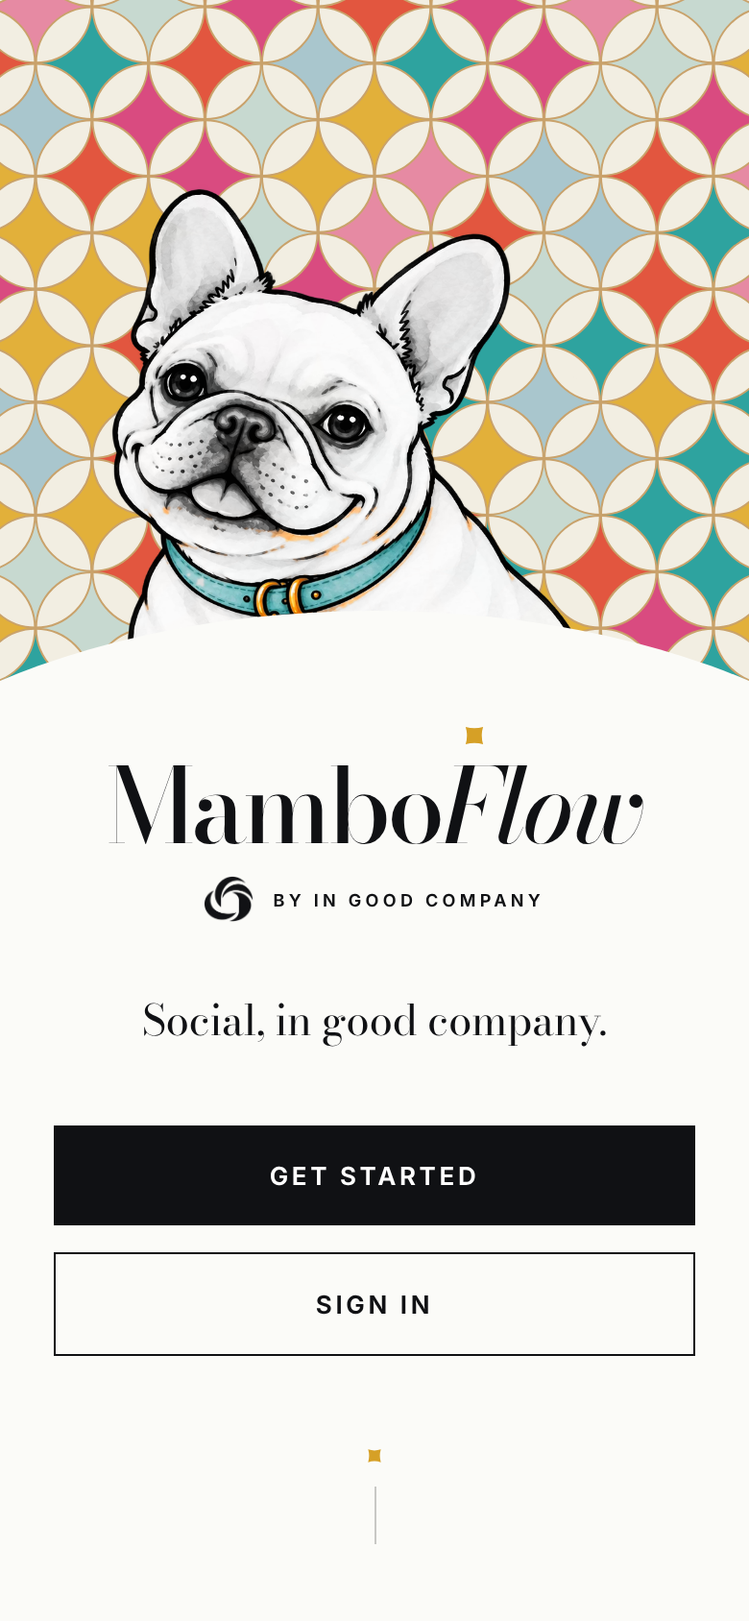
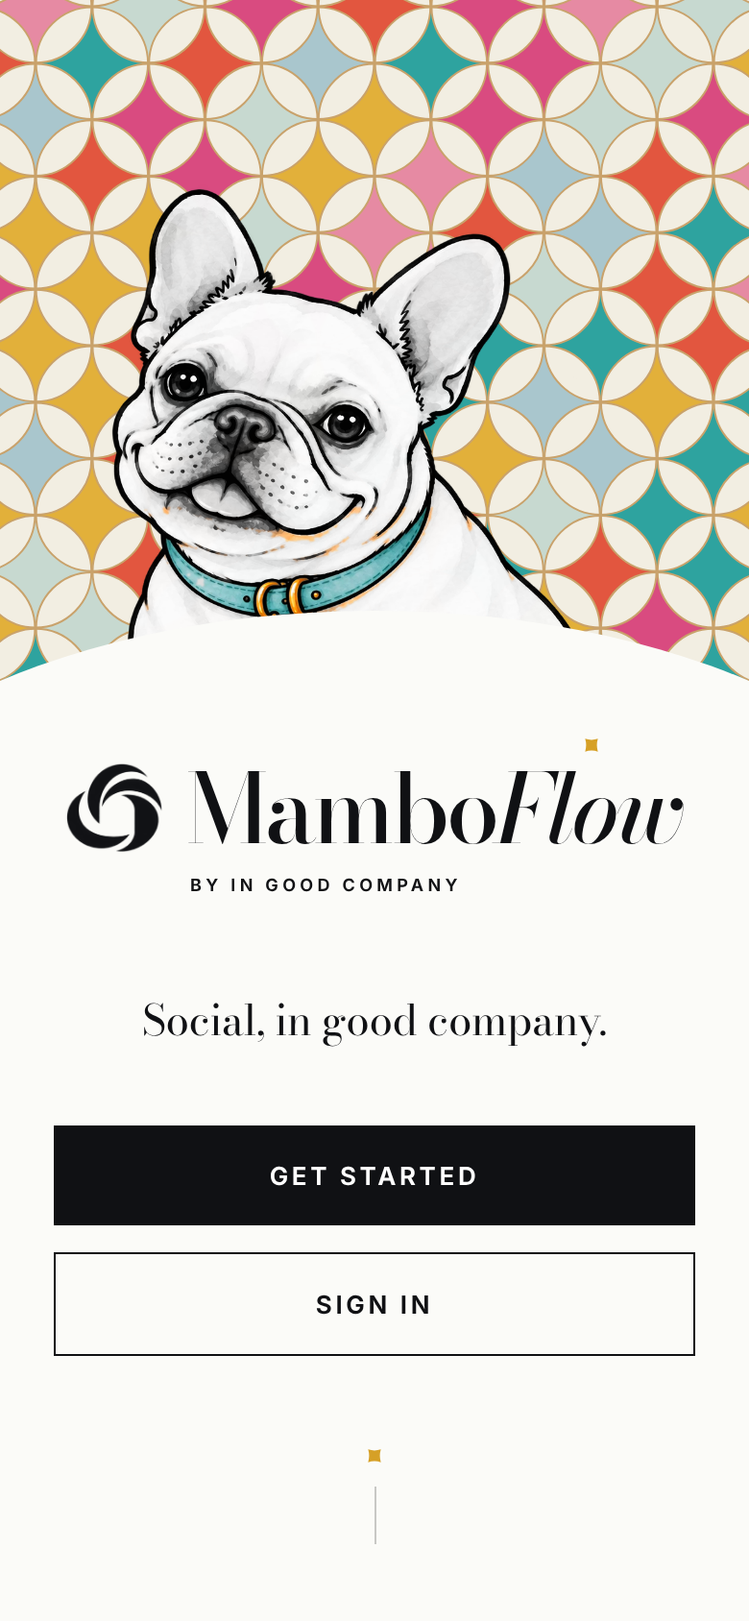
Lock the MamboFlow lockup geometry and carry it into every piece
One lockup, built like the studio's own: Mambo on his argyle panel,
the In Good Company mark at 1.25 x capital height centred on the caps,
the Bodoni Moda wordmark, and "By In Good Company" hanging beneath it,
with one mustard sparkle. Placement is driven by measured type metrics
in source/lockv3.html and render-v3.js. The header, sign-in, email
signature, brand sheet and mobile screen now share the same geometry.
Board and README updated.

Claude-Session: https://claude.ai/code/session_01PSNkhtJjPwNzdydLD5UDQg

Changed region(s): [[0.0923, 0.4313, 0.9231, 0.5853], [0.7692, 0.4313, 0.8, 0.4621]]

diff --git a/branding/mamboflow/source/sheet.html b/branding/mamboflow/source/sheet.html
@@ -17,11 +17,16 @@ img.m{position:absolute;display:block}
 .endorse{position:absolute;display:flex;align-items:center;gap:12px}
 .endorse img{display:block;height:44px;width:auto}
 .endorse .by{position:static!important}
+/* the lockup component: mark = 1.25 x cap height, centred on the caps; endorsement under the wordmark */
+.lk{--F:44px;display:flex;align-items:flex-start;gap:calc(var(--F)*.24)}
+.lk>img{display:block;height:calc(var(--F)*.94);width:auto;margin-top:calc(var(--F)*.02)}
+.lk .wm{font-size:var(--F);line-height:1;white-space:nowrap}
+.lk .by{margin:calc(var(--F)*.18) 0 0 calc(var(--F)*.04)}
+
 .spark{position:absolute;width:40px;height:40px}
 /* hero */
 #hero{grid-column:1/3}
-#hero .wm{position:absolute;left:36px;top:100px;font-size:94px}
-#hero .endorse{left:40px;top:200px}
+#hero .lk{position:absolute;left:36px;top:112px}
 #hero .by{font-size:13px}
 #hero .tag{position:absolute;left:40px;top:318px;width:420px;font-family:"Bodoni Moda";font-size:22px;letter-spacing:-.01em;color:var(--muted)}
 #hero .panel{left:500px;top:28px;width:270px;height:344px}
@@ -31,9 +36,7 @@ img.m{position:absolute;display:block}
 #icon .box{position:absolute;left:62px;top:40px;width:240px;height:240px;border:1px solid var(--line);overflow:hidden;background:var(--paper)}
 #icon .box .panel{left:14px;top:14px;width:212px;height:212px;border-width:3px}
 #icon .box img.m{width:330px;left:-20px;top:8px}
-#icon .wm{position:absolute;left:0;right:0;top:300px;text-align:center;font-size:40px}
-#icon .endorse{left:0;right:0;top:340px;justify-content:center;gap:8px}
-#icon .endorse img{height:22px}
+#icon .lk{position:absolute;left:0;right:0;top:300px;justify-content:center}
 #icon .by{font-size:9px;letter-spacing:.2em}
 /* pattern cell */
 #pat img{position:absolute;inset:0;width:100%;height:100%;object-fit:cover}
@@ -43,8 +46,8 @@ img.m{position:absolute;display:block}
 #phone .scr{position:relative;width:100%;height:100%;border-radius:22px;background:var(--paper);overflow:hidden}
 #phone .scr .panel{left:14px;top:18px;width:202px;height:170px;border-width:4px}
 #phone .scr img.m{left:14px;top:4px;width:200px}
-#phone .scr .wm{position:absolute;left:0;right:0;top:214px;text-align:center;font-size:34px}
-#phone .scr .by{position:absolute;left:0;right:0;top:252px;text-align:center;font-size:8px;letter-spacing:.2em}
+#phone .scr .lk{position:absolute;left:0;right:0;top:214px;justify-content:center}
+#phone .scr .by{font-size:8px;letter-spacing:.2em}
 #phone .btn{position:absolute;left:24px;right:24px;height:38px;display:flex;align-items:center;justify-content:center;font-size:10px;letter-spacing:.14em;text-transform:uppercase;font-weight:650}
 #phone .b1{top:300px;background:var(--ink);color:#fff}
 #phone .b2{top:348px;border:1px solid var(--ink)}
@@ -65,9 +68,7 @@ img.m{position:absolute;display:block}
 /* card + glyphs column */
 #card{display:grid;grid-template-rows:1fr auto;gap:14px;background:transparent;border:0}
 #card .bc{position:relative;background:var(--paper);border:1px solid var(--line);overflow:hidden}
-#card .bc .wm{position:absolute;left:22px;top:64px;font-size:34px}
-#card .bc .endorse{left:24px;top:106px;gap:8px}
-#card .bc .endorse img{height:26px}
+#card .bc .lk{position:absolute;left:22px;top:66px}
 #card .bc .by{font-size:8px;letter-spacing:.2em}
 #card .bc .panel{right:-24px;top:20px;width:140px;height:190px;border-width:4px}
 #card .bc img.m{right:-20px;top:22px;width:128px}
@@ -99,21 +100,21 @@ img.m{position:absolute;display:block}
 <div id="sheet">
  <div class="cell" id="hero">
   <img class="spark" src="../patterns/spark-mustard.svg">
-  <h1 class="wm">Mambo<em>Flow</em></h1><div class="endorse"><img src="../igc/igc-mark-black.png" alt=""><p class="by">By In Good Company</p></div>
+  <div class="lk" style="--F:68px"><img src="../igc/igc-mark-black.png" alt=""><div><h3 class="wm">Mambo<em>Flow</em></h3><p class="by">By In Good Company</p></div></div>
   <div class="tag">Placeholder line, Maddie's words to come.</div>
   <div class="panel"><img src="../patterns/argyle-atomic-fine.svg"></div><img class="m" src="../mascot/mambo-pop-teal.png">
  </div>
- <div class="cell" id="icon"><div class="box"><div class="panel"><img src="../patterns/argyle-atomic-fine.svg"></div><img class="m" src="../mascot/mambo-pop-teal.png"></div><h2 class="wm">Mambo<em>Flow</em></h2><div class="endorse"><img src="../igc/igc-mark-black.png" alt=""><p class="by">By In Good Company</p></div></div>
+ <div class="cell" id="icon"><div class="box"><div class="panel"><img src="../patterns/argyle-atomic-fine.svg"></div><img class="m" src="../mascot/mambo-pop-teal.png"></div><div class="lk" style="--F:38px"><img src="../igc/igc-mark-black.png" alt=""><div><h3 class="wm">Mambo<em>Flow</em></h3><p class="by">By In Good Company</p></div></div></div>
  <div class="cell" id="pat"><img src="../patterns/argyle-atomic-600.svg"></div>
 
- <div class="cell" id="phone"><div class="dev"><div class="scr"><div class="panel"><img src="../patterns/argyle-atomic-fine.svg"></div><img class="m" src="../mascot/mambo-peek-up.png"><h2 class="wm">Mambo<em>Flow</em></h2><p class="by">By In Good Company</p><div class="btn b1">Get started</div><div class="btn b2">Sign in</div><img class="spark" src="../patterns/spark-mustard.svg"></div></div></div>
+ <div class="cell" id="phone"><div class="dev"><div class="scr"><div class="panel"><img src="../patterns/argyle-atomic-fine.svg"></div><img class="m" src="../mascot/mambo-peek-up.png"><div class="lk" style="--F:32px"><img src="../igc/igc-mark-black.png" alt=""><div><h3 class="wm">Mambo<em>Flow</em></h3><p class="by">By In Good Company</p></div></div><div class="btn b1">Get started</div><div class="btn b2">Sign in</div><img class="spark" src="../patterns/spark-mustard.svg"></div></div></div>
  <div class="cell" id="post">
   <div class="bar"><div class="av"><img src="../mascot/mambo-head.png"></div><div><b>MamboFlow</b><br><span>By In Good Company</span></div></div>
   <div class="img"><img class="pat" src="../patterns/tile-foyer.svg"><div class="fade"></div><div class="h">Meet<br>Mambo.</div><img class="m" src="../mascot/mambo-pop-teal-sticker.png"></div>
   <div class="foot"><b>MamboFlow</b>Placeholder caption, Maddie's words to come.</div>
  </div>
  <div class="cell" id="card">
-  <div class="bc"><h2 class="wm">Mambo<em>Flow</em></h2><div class="endorse"><img src="../igc/igc-mark-black.png" alt=""><p class="by">By In Good Company</p></div><div class="panel"><img src="../patterns/argyle-atomic-fine.svg"></div><img class="m" src="../mascot/mambo-peek-corner.png"></div>
+  <div class="bc"><div class="lk" style="--F:30px"><img src="../igc/igc-mark-black.png" alt=""><div><h3 class="wm">Mambo<em>Flow</em></h3><p class="by">By In Good Company</p></div></div><div class="panel"><img src="../patterns/argyle-atomic-fine.svg"></div><img class="m" src="../mascot/mambo-peek-corner.png"></div>
   <div class="gl"><div><img src="../patterns/spark-mustard.svg" style="width:44%"></div><div style="color:#101114"><svg><use href="#burst"/></svg></div><div style="color:#3fa9a6"><svg><use href="#petal"/></svg></div></div>
  </div>
  <div class="cell" id="stick"><img class="m" src="../mascot/mambo-peek-sticker.png"><h2 class="wm">Mambo<em>Flow</em></h2><div class="tag">Die-cut sticker · laptop, water bottle, mail</div></div>
@@ -121,8 +122,8 @@ img.m{position:absolute;display:block}
  <div class="cell" id="pal"><div class="eb lab">Color palette</div><div class="dots"><div style="background:#101114"></div><div style="background:#fbfbf8"></div><div style="background:#e7e7e2"></div><div style="background:#3fa9a6"></div><div style="background:#e2b03a"></div><div style="background:#d94b80"></div><div style="background:#e2563f"></div><div style="background:#a9c6cd"></div></div></div>
  <div class="cell" id="lib"><div class="eb lab">Pattern library</div><div class="row"><div><img src="../patterns/argyle-atomic-600.svg"></div><div><img src="../patterns/tile-foyer.svg"></div><div><img src="../patterns/tile-lattice.svg"></div></div></div>
  <div class="cell" id="var"><div class="eb lab">Logo variations and poses</div><div class="row">
-  <div><img src="../lockups/lock-primary.png" style="left:10px;top:34px;width:95%"><div class="cap">Primary</div></div>
-  <div><img src="../lockups/lock-stacked.png" style="left:20%;top:8px;width:60%"><div class="cap">Stacked</div></div>
+  <div><img src="../lockups/lock-primary.png" style="left:4px;top:40px;width:97%"><div class="cap">Primary</div></div>
+  <div><img src="../lockups/lock-stacked.png" style="left:14%;top:6px;width:72%"><div class="cap">Stacked</div></div>
   <div><img src="../mascot/mambo-pop-teal.png" style="left:18%;top:10px;width:64%"><div class="cap">Full</div></div>
   <div><img src="../mascot/mambo-peek-up.png" style="left:-8%;bottom:-40px;width:116%"><div class="cap">Peek up</div></div>
   <div><img src="../mascot/mambo-peek-corner.png" style="right:-30px;top:-10px;width:92%"><div class="cap">Peek in</div></div>

diff --git a/branding/mamboflow/board/index.html b/branding/mamboflow/board/index.html
@@ -114,7 +114,7 @@ a{color:var(--ink)}
   </div>
   <div>
     <div class="plate"><img src="img/lock-primary.png" alt="MamboFlow primary lockup: Mambo in front of a framed argyle atomic panel, beside the MamboFlow wordmark, the line By In Good Company, and a slot for the In Good Company mark" width="1420" height="420"></div>
-    <div class="cap"><b>Primary lockup</b><span>Draft two · In Good Company mark in place</span></div>
+    <div class="cap"><b>Primary lockup</b><span>Draft three · the chosen lockup</span></div>
   </div>
 </section>
 
@@ -124,7 +124,7 @@ a{color:var(--ink)}
     <p>The whole system at a glance: hero lockup, app icon, the paper, a phone screen, a post, a card, three glyphs, a die-cut sticker, the palette, the pattern library, and Mambo in the poses cut from his drawing. The In Good Company mark sits beside the endorsement line on every piece.</p>
   </div>
   <div class="plate flush"><img src="img/brand-sheet.png" alt="One-page MamboFlow brand sheet" width="1600" height="1180"></div>
-  <div class="cap"><b>Brand sheet</b><span>Draft two · placeholder copy</span></div>
+  <div class="cap"><b>Brand sheet</b><span>Draft three · placeholder copy</span></div>
 </section>
 
 <section>
@@ -178,7 +178,7 @@ a{color:var(--ink)}
 <section>
   <div class="head">
     <div><div class="eyebrow">The lockups</div><h2>The dog, the panel, the word, the studio.</h2></div>
-    <p>Every lockup reads in the same order: Mambo in front of his panel, the MamboFlow wordmark, then the In Good Company mark beside the endorsement line. The panel is bordered in paper white, the way the real ceiling sits inside its trim.</p>
+    <p>One lockup, built the way the studio's own is: Mambo on his panel, then the In Good Company mark at the height of the capitals, then the wordmark with "By In Good Company" hanging beneath it. The panel is bordered in paper white, the way the real ceiling sits inside its trim.</p>
   </div>
   <div class="grid g2">
     <div><div class="plate"><img src="img/lock-stacked.png" alt="Stacked lockup: Mambo and his panel above the wordmark, endorsement, and mark slot" width="960" height="760"></div><div class="cap"><b>Stacked</b><span>Square and tall spaces</span></div></div>
@@ -193,8 +193,10 @@ a{color:var(--ink)}
   <ul class="rows" style="margin-top:clamp(32px,5vw,64px)">
     <li><b>The panel</b><span>The paper appears only inside a framed panel behind Mambo, roughly square, with a paper-white border and a hairline edge. He always overlaps its edges. Never tile the paper edge to edge behind type.</span></li>
     <li><b>Clear space</b><span>The height of the capital M in the wordmark on every side. Minimum primary lockup width on screen: 220px.</span></li>
-    <li><b>Endorsement</b><span>By In Good Company, Inter 650, uppercase, 0.24em tracking. Contracts and footers use the legal name: In Good Company Impact Studio, LLC.</span></li>
-    <li><b>IGC mark</b><span>The studio's circle mark is the supplied file, never redrawn. It sits to the left of the endorsement line at about 3.5 times the cap height of the line (64px beside 17px type), black on light grounds, white on ink. Minimum size 16px.</span></li>
+    <li><b>Legal name</b><span>Contracts and footers use In Good Company Impact Studio, LLC.</span></li>
+    <li><b>IGC mark</b><span>The supplied circle mark, never redrawn, sits to the left of the wordmark at 1.25 times the capital height, centered on the capitals, with a gap of a third of the capital height. Black on light grounds, white on ink. Minimum size 16px.</span></li>
+    <li><b>Endorsement</b><span>By In Good Company hangs under the wordmark, left-aligned to it, a little under half a capital height below the baseline. Inter 650, uppercase, 0.26em tracking.</span></li>
+    <li><b>Sparkle</b><span>One mustard sparkle at the top right of the w in Flow, about a quarter of the capital height. It is the only accent on the lockup.</span></li>
   </ul>
 </section>
 
@@ -301,7 +303,7 @@ a{color:var(--ink)}
     <div><div><h3>Endorsement wording <span class="tag">Confirmed</span></h3><p><strong>MamboFlow by In Good Company.</strong> Confirmed October 14, 2026. The longer form, An In Good Company Impact Studio product, stays available for the website footer and legal pages.</p></div></div>
     <div><div><h3>The color pop <span class="tag">Confirmed</span></h3><p><strong>The argyle atomic panel behind Mambo, a teal collar, a gold charm.</strong> Confirmed October 14, 2026. Mambo's coat stays black and white.</p></div></div>
     <div><div><h3>Collar color <span class="tag">In use</span></h3><p><strong>Teal, his original.</strong> Pink, mustard, and red are rendered above if you want to switch.</p></div></div>
-    <div><div><h3>In Good Company mark <span class="tag">In place</span></h3><p><strong>The supplied circle mark now sits beside the endorsement line in every lockup and application.</strong> Black on light grounds, white on ink, never recolored.</p></div></div>
+    <div><div><h3>The lockup <span class="tag">Chosen</span></h3><p><strong>Mambo on his panel, the In Good Company mark at capital height, the wordmark, the endorsement beneath.</strong> Chosen October 14, 2026, and carried into every piece. The script wordmark from the reference boards is set aside; Bodoni Moda is the studio's face.</p></div></div>
   </div>
   <div class="note" style="margin-top:clamp(24px,3vw,44px)">
     <strong style="color:var(--ink)">To verify.</strong> The paper's colors were sampled by eye from photographs under the chandelier; confirm against the roll or the manufacturer's swatch. The X header and avatar are sized to the platform's current specs. [CONFIRM]
@@ -311,7 +313,7 @@ a{color:var(--ink)}
 <footer>
   <span>MamboFlow · By In Good Company</span>
   <span>© 2026 In Good Company Impact Studio, LLC</span>
-  <span>Brand board, draft two · October 2026</span>
+  <span>Brand board, draft three · October 2026</span>
 </footer>
 
 </div>

diff --git a/branding/mamboflow/source/assets.html b/branding/mamboflow/source/assets.html
@@ -23,6 +23,12 @@ img.m{position:absolute;display:block}
 .endorse{position:absolute;display:flex;align-items:center;gap:18px}
 .endorse img{display:block;height:64px;width:auto}
 .endorse .by{position:static!important}
+/* the lockup component: mark = 1.25 x cap height, centred on the caps; endorsement under the wordmark */
+.lk{--F:44px;display:flex;align-items:flex-start;gap:calc(var(--F)*.24)}
+.lk>img{display:block;height:calc(var(--F)*.94);width:auto;margin-top:calc(var(--F)*.02)}
+.lk .wm{font-size:var(--F);line-height:1;white-space:nowrap}
+.lk .by{margin:calc(var(--F)*.18) 0 0 calc(var(--F)*.04)}
+
 
 /* avatar 400 */
 #avatar,#avatar-dark{width:400px;height:400px}
@@ -37,11 +43,9 @@ img.m{position:absolute;display:block}
 #fav img{position:absolute;width:184px;left:-12px;top:8px}
 /* X header 1500x500 */
 #header{width:1500px;height:500px}
-#header .endorse{left:110px;top:56px;gap:14px}
-#header .endorse img{height:44px}
-#header .by{font-size:14px;color:var(--muted)}
-#header .wm{position:absolute;left:104px;top:112px;font-size:162px}
-#header .tag{position:absolute;left:400px;top:378px;font-family:var(--serif);font-style:italic;font-size:34px;letter-spacing:-.01em;color:var(--ink)}
+#header .lk{position:absolute;left:104px;top:118px}
+#header .lk .by{font-size:16px;color:var(--ink)}
+#header .tag{position:absolute;left:400px;top:380px;font-family:var(--serif);font-style:italic;font-size:34px;letter-spacing:-.01em;color:var(--ink)}
 #header .rule{left:400px;right:560px;top:356px}
 #header .panel{left:1040px;top:46px;width:400px;height:454px}
 #header img.m{right:36px;bottom:-34px;width:400px}
@@ -110,7 +114,7 @@ img.m{position:absolute;display:block}
 #sig .by{font-size:10px;color:var(--muted);margin-top:6px}
 #sig .endorse{position:static;gap:8px;margin-top:6px}
 #sig .endorse img{height:22px}
-#sig .meta{margin-left:auto;text-align:right;font-size:11px;line-height:1.6;letter-spacing:.06em;color:var(--muted)}
+#sig .meta{margin-left:auto;text-align:right;font-size:10px;line-height:1.55;letter-spacing:.04em;color:var(--muted);white-space:nowrap}
 /* pattern tiles 600x600 */
 .tile{width:600px;height:600px}
 </style></head><body>
@@ -125,8 +129,7 @@ img.m{position:absolute;display:block}
 
 <!-- X header -->
 <div class="frame" id="header">
- <div class="endorse"><img src="../igc/igc-mark-black.png" alt=""><p class="by">By In Good Company</p></div>
- <h1 class="wm">Mambo<em>Flow</em></h1>
+ <div class="lk" style="--F:118px"><img src="../igc/igc-mark-black.png" alt=""><div><h3 class="wm">Mambo<em>Flow</em></h3><p class="by">By In Good Company</p></div></div>
  <div class="rule"></div>
  <p class="tag">Social, in good company.</p>
  <div class="panel"><img src="../patterns/argyle-atomic-fine.svg"></div>
@@ -169,7 +172,7 @@ img.m{position:absolute;display:block}
  </div>
  <div class="right">
   <div class="form">
-   <div class="wmsm"><div class="mini"><div class="panel"><img src="../patterns/argyle-atomic-fine.svg"></div><img class="m" src="../mascot/mambo-pop-teal.png" alt=""></div><div><h3 class="wm">Mambo<em>Flow</em></h3><div class="endorse"><img src="../igc/igc-mark-black.png" alt=""><p class="by">By In Good Company</p></div></div></div>
+   <div class="wmsm"><div class="mini"><div class="panel"><img src="../patterns/argyle-atomic-fine.svg"></div><img class="m" src="../mascot/mambo-pop-teal.png" alt=""></div><div class="lk" style="--F:44px"><img src="../igc/igc-mark-black.png" alt=""><div><h3 class="wm">Mambo<em>Flow</em></h3><p class="by">By In Good Company</p></div></div></div>
    <div class="field"><label>Email</label><div>maddie@igcimpactstudio.com</div></div>
    <div class="field"><label>Password</label><div>••••••••••</div></div>
    <div><span class="btn">Sign in <span>→</span></span></div>
@@ -179,7 +182,7 @@ img.m{position:absolute;display:block}
 </div>
 
 <!-- Email signature strip -->
-<div class="frame" id="sig"><div class="mini"><div class="panel"><img src="../patterns/argyle-atomic-fine.svg"></div><img class="m" src="../mascot/mambo-pop-teal.png" alt=""></div><div><h3 class="wm">Mambo<em>Flow</em></h3><div class="endorse"><img src="../igc/igc-mark-black.png" alt=""><p class="by">By In Good Company</p></div></div><div class="meta">Maddie Brown · Founder and Principal<br>In Good Company Impact Studio<br>Maddie@igcimpactstudio.com</div></div>
+<div class="frame" id="sig"><div class="mini"><div class="panel"><img src="../patterns/argyle-atomic-fine.svg"></div><img class="m" src="../mascot/mambo-pop-teal.png" alt=""></div><div class="lk" style="--F:36px"><img src="../igc/igc-mark-black.png" alt=""><div><h3 class="wm">Mambo<em>Flow</em></h3><p class="by">By In Good Company</p></div></div><div class="meta">Maddie Brown · Founder and Principal<br>In Good Company Impact Studio<br>Maddie@igcimpactstudio.com</div></div>
 
 <!-- Pattern tiles -->
 <div class="frame tile" id="tile-signal"><svg class="pat" viewBox="0 0 600 600" fill="none" stroke="#101114" stroke-opacity=".38"><circle cx="300" cy="300" r="60"/><circle cx="300" cy="300" r="120"/><circle cx="300" cy="300" r="180"/><circle cx="300" cy="300" r="240"/><circle cx="300" cy="300" r="300"/><circle cx="300" cy="300" r="360"/></svg></div>

diff --git a/branding/mamboflow/source/lockv3.html b/branding/mamboflow/source/lockv3.html
@@ -1,0 +1,49 @@
+<!doctype html><html><head><meta charset="utf-8"><style>
+@font-face{font-family:"Bodoni Moda";src:url(../fonts/BodoniModa-Variable.ttf);font-weight:400 900}
+@font-face{font-family:"Bodoni Moda";src:url(../fonts/BodoniModa-Italic-Variable.ttf);font-weight:400 900;font-style:italic}
+@font-face{font-family:Inter;src:url(../fonts/Inter-Variable.ttf);font-weight:100 900}
+:root{--paper:#fbfbf8;--ink:#101114;--line:rgba(16,17,20,.22)}
+body{margin:0;background:#888;font-family:Inter;color:var(--ink)}
+.frame{position:relative;overflow:hidden;background:var(--paper);margin:24px}
+.frame.t{background:transparent}
+.frame.ink{background:var(--ink);color:#fff}
+.panel{position:absolute;overflow:hidden;background:var(--paper);border:6px solid var(--paper);outline:1px solid var(--line)}
+.panel img{position:absolute;inset:0;width:100%;height:100%;object-fit:cover}
+img.m{position:absolute;display:block}
+.wm{font-family:"Bodoni Moda";font-weight:500;letter-spacing:-.035em;line-height:1;margin:0;white-space:nowrap}
+.wm em{font-style:italic}
+.by{font-weight:650;text-transform:uppercase;letter-spacing:.26em;margin:0}
+.mark{position:absolute;display:block}
+.spark{position:absolute;display:block}
+/* primary: Mambo + panel | mark | wordmark over endorsement */
+#p{width:1600px;height:520px}
+#p .panel{left:0;top:60px;width:340px;height:400px}
+#p img.m{left:10px;top:30px;width:330px}
+#p .mark{left:400px;top:150px;height:170px}
+#p .wm{position:absolute;left:600px;top:118px;font-size:200px}
+#p .by{position:absolute;left:608px;top:346px;font-size:19px}
+#p .spark{left:1534px;top:132px;width:34px}
+/* reversed */
+#r{width:1600px;height:520px}
+#r .panel{left:0;top:60px;width:340px;height:400px}
+#r img.m{left:10px;top:30px;width:330px}
+#r .mark{left:400px;top:150px;height:170px}
+#r .wm{position:absolute;left:600px;top:118px;font-size:200px;color:#fff}
+#r .by{position:absolute;left:608px;top:346px;font-size:19px;color:#fff}
+#r .spark{left:1534px;top:132px;width:34px}
+/* stacked */
+#s{width:1000px;height:1040px}
+#s .panel{left:320px;top:40px;width:360px;height:420px}
+#s img.m{left:330px;top:14px;width:340px}
+#s .mark{left:118px;top:558px;height:130px}
+#s .wm{position:absolute;left:272px;top:536px;font-size:150px}
+#s .by{position:absolute;left:0;right:0;top:720px;text-align:center;font-size:17px}
+#s .spark{left:862px;top:548px;width:28px}
+/* small test: lockup at 320px wide */
+#small{width:560px;height:200px;display:grid;place-items:center}
+#small img{width:320px}
+</style></head><body>
+<div class="frame t" id="p"><div class="panel"><img src="../patterns/argyle-atomic-fine.svg"></div><img class="m" src="../mascot/mambo-pop-teal.png"><img class="mark" src="../igc/igc-mark-black.png"><h1 class="wm">Mambo<em>Flow</em></h1><p class="by">By In Good Company</p><img class="spark" src="../patterns/spark-mustard.svg"></div>
+<div class="frame ink" id="r"><div class="panel"><img src="../patterns/argyle-atomic-fine.svg"></div><img class="m" src="../mascot/mambo-pop-teal.png"><img class="mark" src="../igc/igc-mark-white.png"><h1 class="wm">Mambo<em>Flow</em></h1><p class="by">By In Good Company</p><img class="spark" src="../patterns/spark-mustard.svg"></div>
+<div class="frame t" id="s"><div class="panel"><img src="../patterns/argyle-atomic-fine.svg"></div><img class="m" src="../mascot/mambo-pop-teal.png"><img class="mark" src="../igc/igc-mark-black.png"><h1 class="wm">Mambo<em>Flow</em></h1><p class="by">By In Good Company</p><img class="spark" src="../patterns/spark-mustard.svg"></div>
+</body></html>

diff --git a/branding/mamboflow/source/render-v3.js b/branding/mamboflow/source/render-v3.js
@@ -1,0 +1,33 @@
+const { chromium } = require('playwright'); const path=require('path');
+(async()=>{const b=await chromium.launch();
+const p=await b.newPage({viewport:{width:1700,height:1300}}); await p.goto('file://'+path.resolve(__dirname,'lockv3.html')); await p.evaluate(()=>document.fonts.ready); await p.waitForTimeout(400);
+// metric-driven placement: mark = 1.25 x cap height, centred on the caps; endorsement under the wordmark; sparkle at the top right of Flow
+const place = await p.evaluate(() => {
+  const out = {};
+  const capHeight = (F) => { const c=document.createElement('canvas').getContext('2d'); c.font = `500 ${F}px "Bodoni Moda"`; const m=c.measureText('M'); return {cap:m.actualBoundingBoxAscent}; };
+  function layout(id, F, markLeft, top, byF, stacked) {
+    const fr=document.getElementById(id); const wm=fr.querySelector('.wm'); const mk=fr.querySelector('.mark'); const by=fr.querySelector('.by'); const sp=fr.querySelector('.spark');
+    wm.style.fontSize=F+'px'; wm.style.top=top+'px';
+    const {cap}=capHeight(F);
+    const r0=wm.getBoundingClientRect(); const f=fr.getBoundingClientRect();
+    // baseline: with line-height 1, Bodoni Moda places the baseline near top + 0.80F; measure instead with a span
+    const probe=document.createElement('span'); probe.textContent='M'; probe.style.cssText='display:inline-block;vertical-align:baseline;line-height:1;font:inherit'; wm.appendChild(probe);
+    const pr=probe.getBoundingClientRect(); probe.remove();
+    // baseline of the span box: use a zero-height inline-block aligned to baseline
+    const z=document.createElement('span'); z.style.cssText='display:inline-block;width:0;height:0;vertical-align:baseline'; wm.appendChild(z); const zr=z.getBoundingClientRect(); z.remove();
+    const baseline=zr.top-f.top; const capTop=baseline-cap; const capMid=baseline-cap/2;
+    const markH=Math.round(cap*1.25); mk.style.height=markH+'px'; mk.style.top=Math.round(capMid-markH/2)+'px';
+    const markW=markH*1.076; const gap=Math.round(cap*0.32);
+    if(!stacked){ mk.style.left=markLeft+'px'; wm.style.left=Math.round(markLeft+markW+gap)+'px'; }
+    else { const total=markW+gap+r0.width; const left=(f.width-total)/2; mk.style.left=Math.round(left)+'px'; wm.style.left=Math.round(left+markW+gap)+'px'; }
+    const r=wm.getBoundingClientRect();
+    by.style.fontSize=byF+'px'; by.style.left=Math.round(r.left-f.left+F*0.04)+'px'; by.style.top=Math.round(baseline+cap*0.42)+'px'; by.style.right='auto'; by.style.textAlign='left';
+    sp.style.width=Math.round(cap*0.26)+'px'; sp.style.left=Math.round(r.right-f.left+cap*0.08)+'px'; sp.style.top=Math.round(capTop-cap*0.22)+'px';
+    out[id]={cap, baseline, wmLeft:r.left-f.left, wmRight:r.right-f.left, markH};
+  }
+  layout('p',176,400,128,19,false); layout('r',176,400,128,19,false); layout('s',126,0,560,16,true);
+  return out;
+});
+console.log(JSON.stringify(place));
+for (const [id,t] of [['p',true],['r',false],['s',true]]) { await p.evaluate(t=>{document.body.style.background=t?'transparent':'#888'},t); const el=await p.$('#'+id); await el.screenshot({path:path.resolve(__dirname,'../lockups/v3-'+id+'.png'),omitBackground:t}); }
+await b.close();})();

diff --git a/branding/mamboflow/source/mobile.html b/branding/mamboflow/source/mobile.html
@@ -9,12 +9,17 @@ body{margin:0;background:#888;font-family:Inter;color:var(--ink)}
 #m .paper img{position:absolute;inset:0;width:100%;height:100%;object-fit:cover}
 #m .dog{position:absolute;left:52px;top:96px;width:300px}
 #m .wall{position:absolute;left:-120px;right:-120px;top:318px;height:700px;background:var(--paper);border-radius:50% 50% 0 0 / 170px 170px 0 0}
-#m .wm{position:absolute;left:0;right:0;top:396px;text-align:center;font-family:"Bodoni Moda";font-weight:500;font-size:54px;letter-spacing:-.035em;line-height:.9;margin:0}
-#m .wm em{font-style:italic}
-#m .spark{position:absolute;left:236px;top:372px;width:22px}
-#m .endorse{position:absolute;left:0;right:0;top:456px;display:flex;justify-content:center;align-items:center;gap:10px}
-#m .endorse img{height:24px}
-#m .by{margin:0;font-size:9px;letter-spacing:.24em;text-transform:uppercase;font-weight:650}
+.wm{font-family:"Bodoni Moda";font-weight:500;letter-spacing:-.035em;margin:0}
+.wm em{font-style:italic}
+#m .lk{position:absolute;left:0;right:0;top:396px;justify-content:center}
+#m .spark{position:absolute;left:300px;top:380px;width:16px}
+#m .by{font-size:9px;letter-spacing:.24em;text-transform:uppercase;font-weight:650}
+/* the lockup component: mark = 1.25 x cap height, centred on the caps; endorsement under the wordmark */
+.lk{--F:44px;display:flex;align-items:flex-start;gap:calc(var(--F)*.24)}
+.lk>img{display:block;height:calc(var(--F)*.94);width:auto;margin-top:calc(var(--F)*.02)}
+.lk .wm{font-size:var(--F);line-height:1;white-space:nowrap}
+.lk .by{margin:calc(var(--F)*.18) 0 0 calc(var(--F)*.04)}
+
 #m .tag{position:absolute;left:0;right:0;top:514px;text-align:center;font-family:"Bodoni Moda";font-size:22px;letter-spacing:-.01em;color:var(--ink)}
 #m .btn{position:absolute;left:28px;right:28px;height:52px;display:flex;align-items:center;justify-content:center;font-size:13px;letter-spacing:.14em;text-transform:uppercase;font-weight:650}
 #m .b1{top:586px;background:var(--ink);color:#fff}
@@ -28,8 +33,7 @@ body{margin:0;background:#888;font-family:Inter;color:var(--ink)}
  <img class="dog" src="../mascot/mambo-peek-up.png">
  <div class="wall"></div>
  <img class="spark" src="../patterns/spark-mustard.svg">
- <h1 class="wm">Mambo<em>Flow</em></h1>
- <div class="endorse"><img src="../igc/igc-mark-black.png"><p class="by">By In Good Company</p></div>
+ <div class="lk" style="--F:50px"><img src="../igc/igc-mark-black.png" alt=""><div><h3 class="wm">Mambo<em>Flow</em></h3><p class="by">By In Good Company</p></div></div>
  <div class="tag">Social, in good company.</div>
  <div class="btn b1">Get started</div>
  <div class="btn b2">Sign in</div>

diff --git a/branding/mamboflow/README.md b/branding/mamboflow/README.md
@@ -22,7 +22,7 @@ In Good Company is the parent brand. MamboFlow is an endorsed product. It carrie
 | `mascot/mambo-classic.png` | Quiet treatment, no color. Documents and print. |
 | `mascot/mambo-ink.png` | Full watercolor shading in grayscale. Large editorial use. |
 | `mascot/mambo-stamp.png` | Pure two-tone. Favicons, sizes under 64 px. |
-| `lockups/lock-primary.png`, `lock-stacked.png` | Transparent lockups: the panel, Mambo, wordmark, and the In Good Company mark beside the endorsement line. |
+| `lockups/lock-primary.png`, `lock-stacked.png` | Transparent lockups: Mambo on his panel, the In Good Company mark at capital height, the wordmark, the endorsement beneath. |
 | `lockups/lock-rev.png` | Reversed lockup on ink. |
 | `social/avatar.png`, `avatar-dark.png` | Profile avatars, 400 x 400. |
 | `social/header.png` | X header, 1500 x 500. |
@@ -44,7 +44,7 @@ In Good Company is the parent brand. MamboFlow is an endorsed product. It carrie
 
 - Mambo's coat is black and white. The collar is the only color on him; the charm is always gold.
 - The paper appears only inside a framed panel behind Mambo, bordered in paper white with a hairline edge. He overlaps its edges. Never tile it behind type.
-- Lockup order never changes: Mambo and panel, wordmark, then the IGC mark beside the endorsement line. The mark is black on light grounds, white on ink, never recolored, never inside the paper, never below 16 px.
+- The lockup, in order: Mambo on his panel, the In Good Company mark, the wordmark, the endorsement beneath. The mark is 1.25 x the capital height, centered on the capitals, with a gap of a third of the capital height before the wordmark. The endorsement hangs under the wordmark, left-aligned, just under half a capital height below the baseline. One mustard sparkle at the top right of the w. The mark is black on light grounds, white on ink, never recolored, never inside the paper, never below 16 px. `source/lockv3.html` and `source/render-v3.js` place these from measured type metrics.
 - Wordmark: Bodoni Moda 500, tracking -0.035em, "Mambo" upright and "Flow" italic.
 - Endorsement: Inter 650, uppercase, 0.24em tracking. Legal name in contracts and footers: In Good Company Impact Studio, LLC.
 - Clear space equals the height of the capital M on every side. Minimum primary lockup width on screen: 220 px.
@@ -52,6 +52,8 @@ In Good Company is the parent brand. MamboFlow is an endorsed product. It carrie
 - No em dashes, no emoji, no contractions in documents or product screens. Social captions may use contractions.
 
 ## Confirmed
+
+- The lockup layout: Mambo and panel, mark, wordmark, endorsement beneath (October 14, 2026). Bodoni Moda wordmark, not a script.
 
 - The In Good Company mark: supplied by Maddie on October 14, 2026, and set beside the endorsement line everywhere.
 
